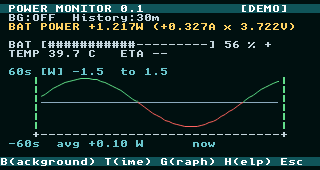
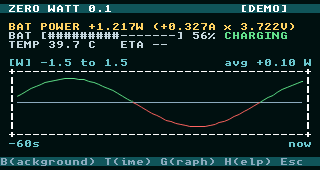
docs: refresh device screenshots and verification after rename
- Install the Zero Watt package on the device; dpkg replaced power-monitor
- Recapture the four store screenshots from the device framebuffer
- Record device verification and the stopped stale collector service

diff --git a/PUBLISH.md b/PUBLISH.md
@@ -52,9 +52,9 @@ no existing store identity to migrate.
 - Screenshot 3 (320 x 170): `preview/device-history.png`
 - Screenshot 4 (320 x 170): `preview/device-settings.png`
 
-The four store screenshots predate the rename and still show the `POWER MONITOR`
-header. Replace them with fresh device captures (or the current 320 x 170
-captures) before uploading.
+All four store screenshots were recaptured on the device after the rename and
+show the current `ZERO WATT` header. Each is a real 320 x 170 RGB565 framebuffer
+read, using demo data where the UI is marked `[DEMO]`.
 
 ## Preflight
 
@@ -63,11 +63,12 @@ captures) before uploading.
 - [x] Control fields contain Package, Version, Architecture, Maintainer, and Depends.
 - [x] Architecture is `arm64`.
 - [x] APPLaunch `.desktop`, executable, PNG icon, and user collector unit exist inside the package.
+- [x] The renamed package was installed on the device with `dpkg -i`; it replaced
+      the `power-monitor` development package and the old collector was stopped.
 - [x] `cmake -DPACKAGE_FILE=dist/ZeroWatt_0.1.0_rev1_arm64.deb -P .agents/skills/cardputerzero-package-release/scripts/validate_app_builder.cmake` passes.
 - [ ] `app-builder.json` source repo exists publicly, author identity is confirmed, and `share_code` uniqueness is confirmed.
 - [ ] Listing copy and categories have been reviewed.
-- [ ] Four clean 320 x 170 baseline screenshots describe the current UI (current
-      device captures still show the old `POWER MONITOR` header).
+- [x] Four clean 320 x 170 baseline screenshots describe the current UI.
 - [x] No credentials, tokens, or private server details are embedded.
 - [ ] The user explicitly approved external submission.
 

diff --git a/VALIDATION.md b/VALIDATION.md
@@ -114,6 +114,18 @@ confirmed before an upload.
   `preview/help.png`, `preview/sample.png`, and `preview/missing.png`. The full-screen
   history header shows time rather than the application name, so `preview/history.png`
   is unchanged.
-- Not refreshed: `preview/device-*.png` still show the old `POWER MONITOR` header. They
-  need a new device capture session before store upload, and the device still has the
-  previous development package installed.
+- Installed `dist/ZeroWatt_0.1.0_rev1_arm64.deb` on the Debian 13 device with `dpkg -i`;
+  dpkg removed `power-monitor` in favour of `zero-watt`. The new `/usr/bin/zero-watt`,
+  user unit, APPLaunch entry, icon, and docs are present, and the stale
+  `power-monitor` collector service was stopped.
+- With `APPLaunch.service` stopped, ran `/usr/bin/zero-watt --demo` on the real
+  framebuffer. Injected evdev `H`, `G`, `T`, `Esc`, and a 1.2-second Esc hold; help,
+  history, the retention dialog, cancel, and a clean exit all worked. The launcher was
+  restored and is active.
+- Recaptured the four store screenshots from the actual framebuffer (home, help,
+  history, settings); they now show `ZERO WATT 0.1` with demo data marked `[DEMO]`.
+  `--demo --capture` also succeeded on the device. The app was then opened live from
+  the launcher, started `zero-watt-collector.service`, and `--status` reported active
+  collection.
+- Still unverified: physical key presses, full launcher navigation/selection, Home
+  handling, 24-hour soak, actual suspend/resume, and power overhead.

diff --git a/README.md b/README.md
@@ -176,7 +176,7 @@ ZERO_WATT_INPUT_DEVICE=/dev/input/by-path/platform-3f804000.i2c-event \
 
 macOS 桌面 preset 构建和五项 CTest 已通过；官方 `cp0-cross-package` workflow 在 macOS 上完成 BSP 交叉构建并生成 `dist/ZeroWatt_0.1.0_rev1_arm64.deb`，`dpkg-deb` 和 `app-builder` validator 均通过。详见 `VALIDATION.md`。
 
-已在 Debian 13 / AArch64 真机用 `dpkg -i` 安装官方包：`/usr/bin/zero-watt` 的离屏渲染成功，用户级采集服务可从 `/usr/bin/zero-watt --collect` 启动，`--status` 正常；停 launcher 后交叉产物在真实 fbdev/evdev 上运行 5 秒无错误。启动器已恢复。仍待验证实体按键、从启动器选中应用的完整流程、长按 Home、24 小时 soak 和程序自身功耗。商店上传尚未执行；`app-builder.json` 的 source repo、author 和 share code 仍是待确认值。
+改名后的 `zero-watt` 包已在 Debian 13 / AArch64 真机用 `dpkg -i` 安装，并替换掉旧的 `power-monitor` 开发包。`--demo --capture`、用户级采集服务启动和 `--status` 均正常；注入 evdev H/G/T/Esc 验证了帮助、历史、设置和长按退出，并用实际 framebuffer 重拍四张商店截图。启动器已恢复。仍待验证实体按键、从启动器选中应用的完整流程、长按 Home、24 小时 soak 和程序自身功耗。商店上传尚未执行；`app-builder.json` 的 source repo、author 和 share code 仍是待确认值。
 
 ## 上游约定
 
